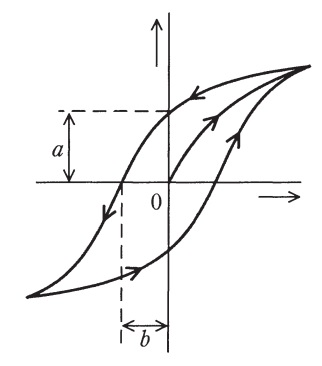
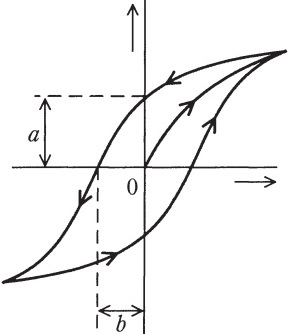
fix

Changed region(s): [[0.0, 0.0, 0.9965, 1.0]]

diff --git a/docs/electricity/denken/riron/2-3-electrostatic-capacity.md b/docs/electricity/denken/riron/2-3-electrostatic-capacity.md
@@ -317,6 +317,16 @@ $W'=\frac{Q'^2}{2C}=\frac{16}{7}\epsilon SE^2d$
 
 $\frac{W'}{W}=\frac{\frac{16}{7}\epsilon SE^2d}{\frac{5}{2}\epsilon SE^2d}=0.914$
 
+【】
+
+極板 A と極板 B との間に一定の直流電圧を加え，極板 B を接地した平行板コンデンサに関する記述 a ～ d として，正しいものの組合せを次の(1)～(5)のうちから一つ選べ。
+ただし，コンデンサの端効果は無視できるものとする。
+
+ a 　極板間の電位は，極板 A からの距離に対して反比例の関係で変化する。
+ b 　極板間の電界の強さは，極板 A からの距離に対して一定である。
+ c 　極板間の等電位線は，極板に対して平行である。
+ d 　極板間の電気力線は，極板に対して垂直である。
+
 ## 参考動画
 
 - *初心者向け電験三種・理論・12・過渡現象【超簡単に学ぶ！】第三種電気主任技術者*

diff --git a/docs/electricity/denken/riron/2-10-bh-curve.md b/docs/electricity/denken/riron/2-10-bh-curve.md
@@ -1,10 +1,10 @@
-# 【BH曲線とは】磁化特性(ヒステリシスループ)の意味と過去問【電験3種・理論】
+# 【BH曲線とは】磁化特性(BH曲線)とは?意味と過去問【電験3種・理論】
 
-## 磁化特性(ヒステリシスループ)
+## 磁化特性(BH曲線)
 
 ![図1](./assets/2-10-bh-curve1.jpg)  
 
-- 図は積層した電磁鋼板の鉄心の磁化特性(ヒステリシスループ)を示す。
+- 図は積層した電磁鋼板の鉄心の磁化特性(BH曲線、ヒステリシスループ)を示す。
 - 縦軸は磁束密度$B[T]$、横軸は磁界の強さH[A/m] を表す。
 - この鉄心にコイルを巻きリアクトルを製作し、商用交流電源に接続し、実効値が$V[V]$の電源電圧を印加すると、図中に矢印で示す軌跡が確認された。
 - コイル電流が最大のときの点は**2**である。

diff --git a/docs/game/smash-bros/samus.md b/docs/game/smash-bros/samus.md
@@ -140,3 +140,5 @@
     - [![](https://img.youtube.com/vi/OM0A1OZSZOE/0.jpg)](https://www.youtube.com/watch?v=OM0A1OZSZOE)
 - 【サムス解説】VIPにいきたい人のためのCS撃ち方まとめ【スマブラSP】
     - [![](https://img.youtube.com/vi/zPhlyiim_ww/0.jpg)](https://www.youtube.com/watch?v=zPhlyiim_ww)
+- 【史上初】サムス/ダムスの掴み（グラップ）キャンセル徹底解説|スマブラSP
+    - [![](https://img.youtube.com/vi/MDCsVt3yOZU/0.jpg)](https://www.youtube.com/watch?v=MDCsVt3yOZU)
